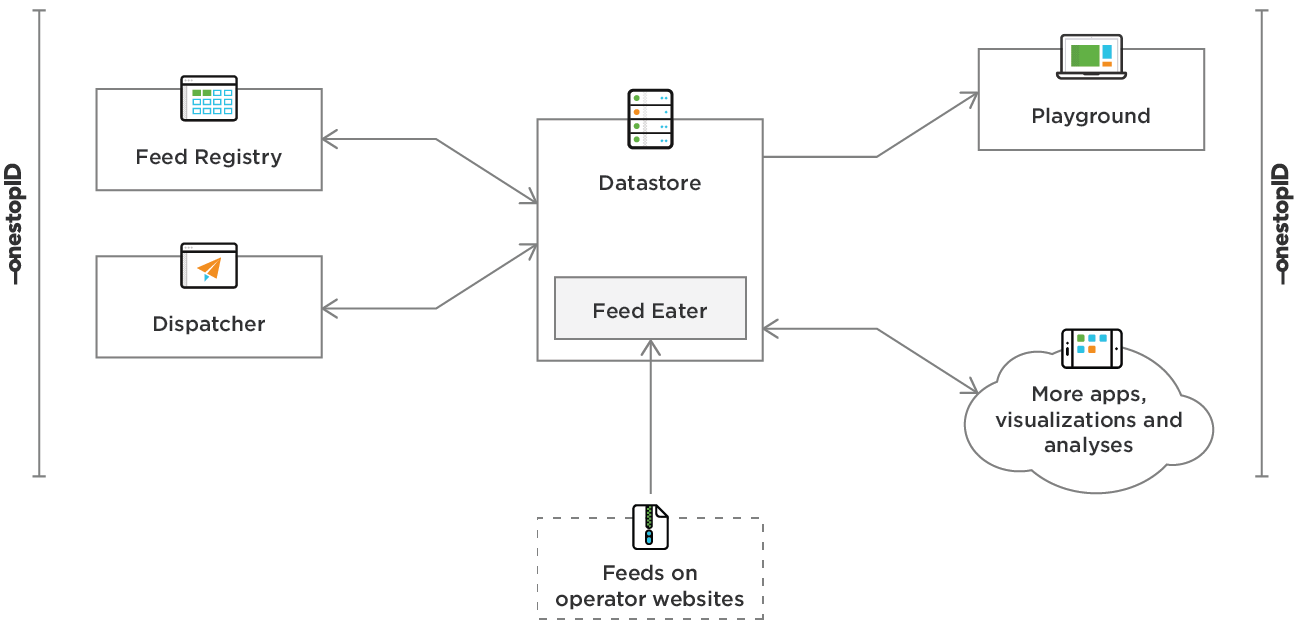
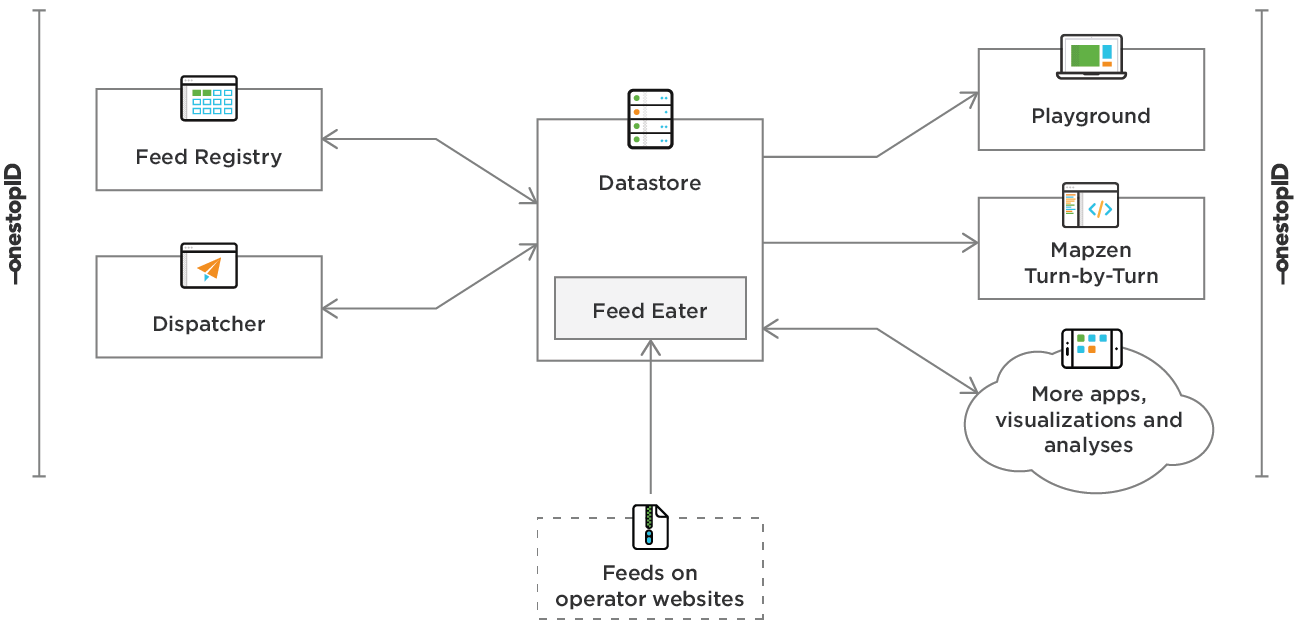
mention routing

Changed region(s): [[0.739, 0.3939, 0.9238, 0.4848], [0.739, 0.2727, 0.9238, 0.3636], [0.5851, 0.3636, 0.7698, 0.4242]]

diff --git a/documentation/index.md b/documentation/index.md
@@ -14,6 +14,8 @@ Transitland brings together many sources of transit data to build a directory of
 
 [Transitland Playground](/documentation/playground/) demonstrates all the pieces of the data architecture working together.
 
+[Mapzen Turn-by-Turn](https://mapzen.com/products/turn-by-turn) is a hosted routing service that consumes data from the Datastore API and offers journey planning and analysis.
+
 ![a diagram showing the Transitland Feed Registry, Datastore, and Playground communicating with each other](/images/how-it-works-diagram.png)
 
 With data coming from many different sources, the [Onestop ID scheme](/documentation/onestop-id-scheme/) is Transitland's experimental attempt to build a stable, globally unique identifier scheme. The Datastore API returns Onestop IDs for every feed, operator, stop, and route.
